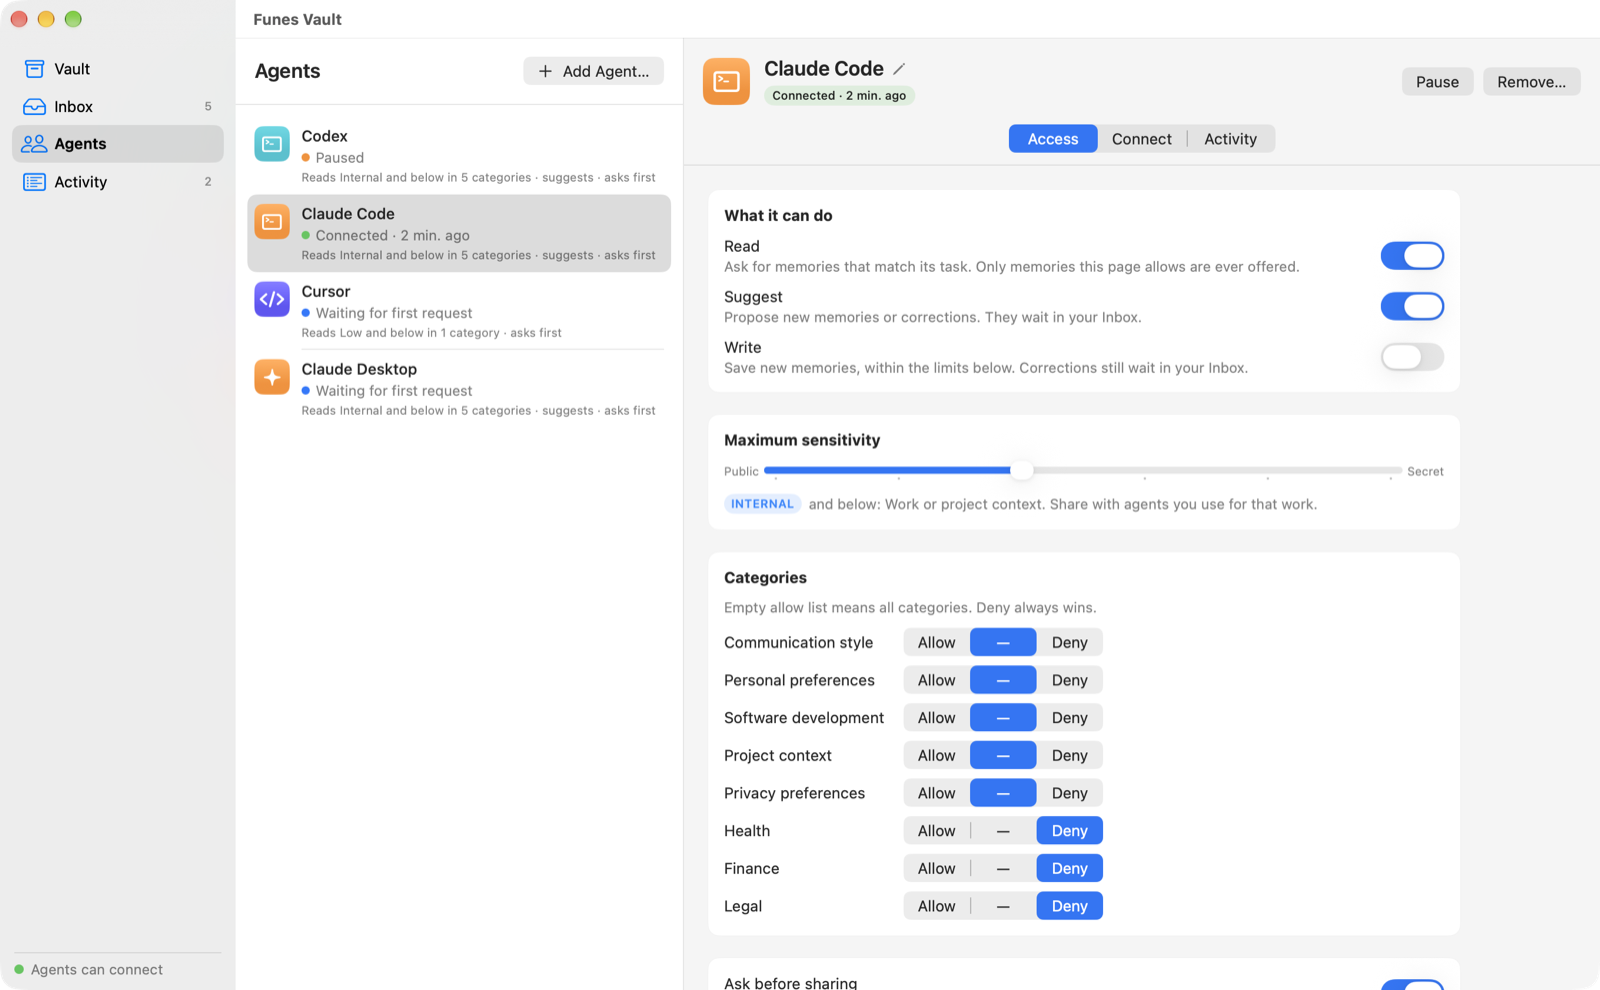
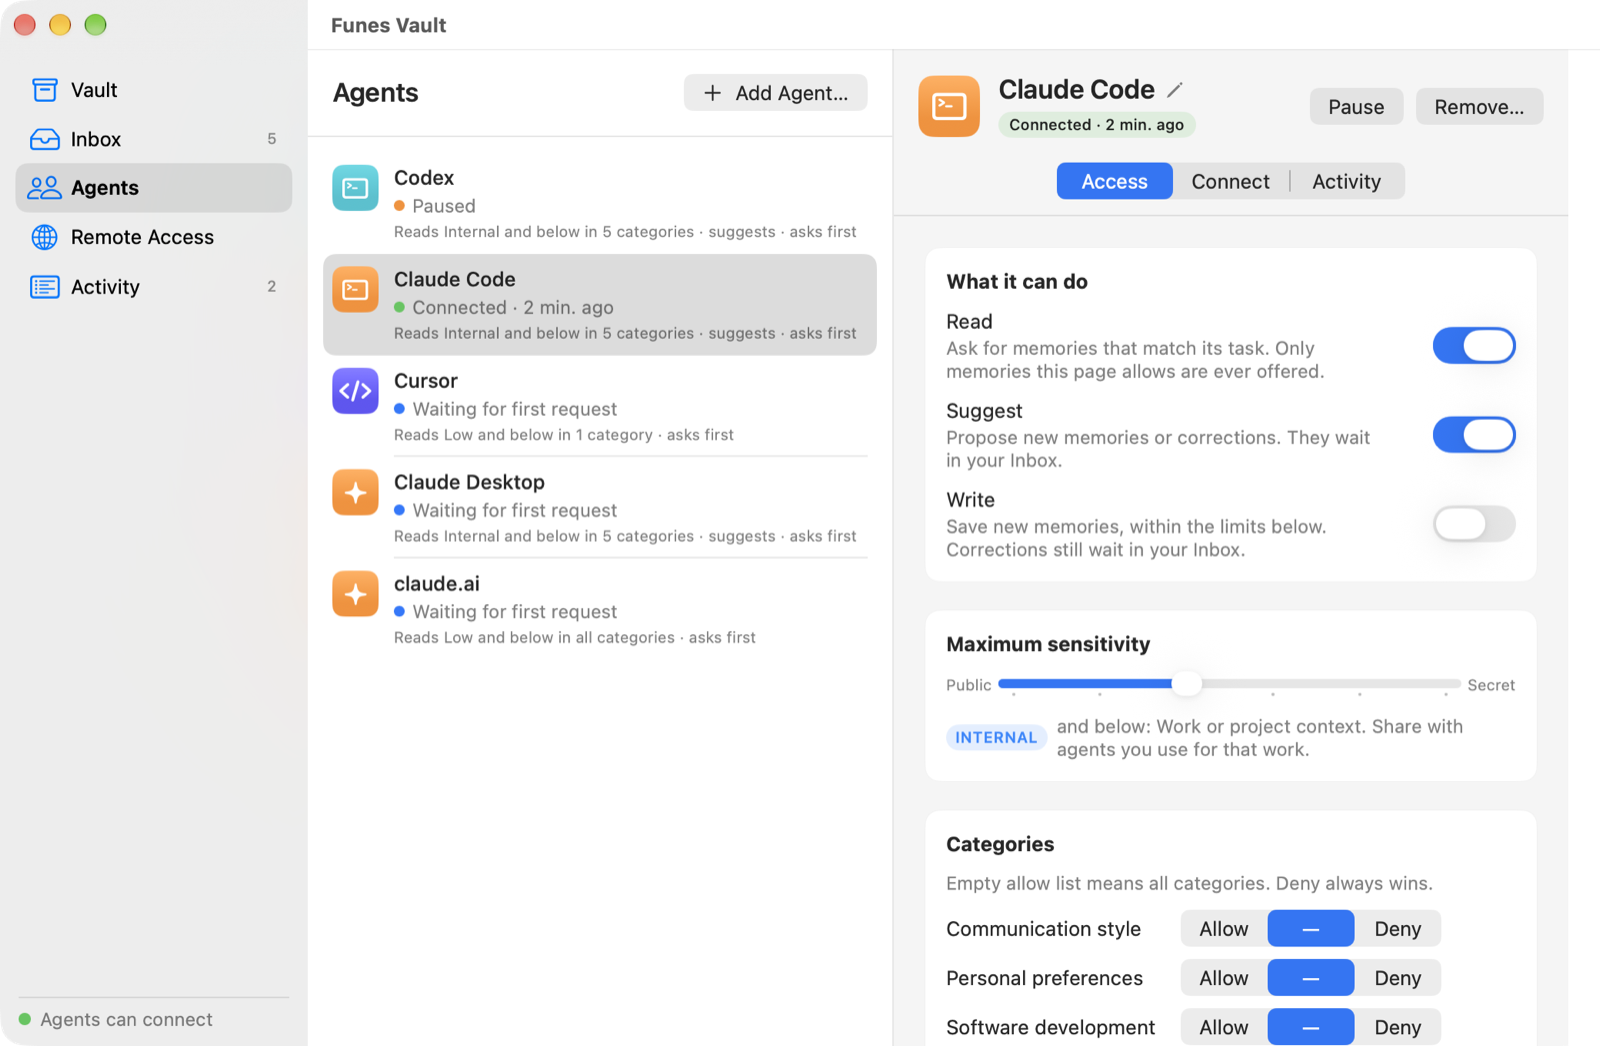
Screenshots: regenerate from the UI-review build, add Remote Access
- Regenerated vault-memory, agents-access, inbox, activity and share-panel
  (light and dark) from sh scripts/ui_snapshots.sh: the sidebar now shows
  Remote Access and the Share panel the orange eye icon.
- New: remote-access (the Remote Access page, set up) in the README, and
  agents-cloud (a cloud agent's Cloud tab) for the MCP guide.
- Alt texts describe what the images now show.
- UI review: both passes start at the default window size, not the real
  app's autosaved frame, and with Remote Access off, so light and dark
  snapshots match.
- Activity was captured at 1280 × 760: at the default 1040-point width its
  filter row now overflows the pane (an app layout issue, not fixed here).

diff --git a/Apps/FunesMac/Review/UIReview.swift b/Apps/FunesMac/Review/UIReview.swift
@@ -136,6 +136,10 @@ final class UIReview: NSObject, NSApplicationDelegate {
         keep.append(main)
         for (appearance, suffix) in [(NSAppearance.Name.aqua, "light"), (.darkAqua, "dark")] {
             NSApp.appearance = NSAppearance(named: appearance)
+            // Both passes start alike: the default window size, not the frame the real app autosaved,
+            // and Remote Access off, as the previous pass leaves it on.
+            main.window?.setContentSize(NSSize(width: 1_040, height: 680))
+            model.remoteAccess.reviewSet(enabled: false, origin: nil, tunnel: nil)
 
             // The main window, section by section.
             func mainScene(_ name: String, _ prepare: () -> Void) async {

diff --git a/README.md b/README.md
@@ -63,6 +63,11 @@ claude.ai, ChatGPT and cloud coding agents run on their vendor's servers, so the
 2. Add the agent with a cloud tile in **Add Agent…** (claude.ai, ChatGPT, …), or turn on **Allow cloud access** on an agent's **Cloud** tab.
 3. Connect it: apps that sign in (claude.ai, ChatGPT, Gemini Enterprise) use **Connect a Cloud App…** and a six-digit code you compare on the Mac; the others use the agent's remote token. The agent's **Cloud** tab shows the steps for each.
 
+<picture>
+  <source media="(prefers-color-scheme: dark)" srcset="docs/images/remote-access-dark.png">
+  <img alt="The Remote Access page, on and marked Experimental: the tunnel is reachable and running (Tailscale Funnel, forwarding to 47627), the public address and the MCP URL with its secret path, the port, when to turn off, and the agents with cloud access." src="docs/images/remote-access-light.png" width="720">
+</picture>
+
 A cloud agent gets exactly the access you set for it, and the same panels on your Mac: if you're away, its requests wait and expire as for any agent. While Remote Access is on, the vault is reachable through a public address, and what you share with a cloud agent goes to its vendor's servers. It's off by default, and **Turn Off Remote Access** in the menu bar cuts every cloud agent off at once. The [MCP guide](docs/MCP.md#use-from-cloud-agents) has the details.
 
 ## How you stay in control
@@ -75,7 +80,7 @@ Every agent has its own access: whether it may **Read**, **Suggest** or **Write*
 
 <picture>
   <source media="(prefers-color-scheme: dark)" srcset="docs/images/agents-access-dark.png">
-  <img alt="An agent's Access tab: switches for Read, Suggest and Write, the maximum sensitivity, allowed and denied categories, Ask before sharing, Ask before saving and an expiry date." src="docs/images/agents-access-light.png" width="640">
+  <img alt="The Agents page: each agent with its status and a summary of its access, and Claude Code's Access tab open, with switches for Read, Suggest and Write, a slider for the maximum sensitivity, and Allow or Deny for each category." src="docs/images/agents-access-light.png" width="640">
 </picture>
 
 ### You approve the exact text
@@ -95,7 +100,7 @@ Agents propose memories, and by default each one waits in the **Inbox** as a car
 
 <picture>
   <source media="(prefers-color-scheme: dark)" srcset="docs/images/inbox-dark.png">
-  <img alt="The Inbox: suggestion cards from agents and captures, each with its proposed title, text, categories and sensitivity, and Apply, Reject and Later buttons." src="docs/images/inbox-light.png" width="720">
+  <img alt="The Inbox: a correction from Claude Code showing the old text struck out and the new text, with editable title, text, kind, sensitivity and categories, the agent's reason as reported, and Later, Reject, Keep Both and Replace buttons." src="docs/images/inbox-light.png" width="720">
 </picture>
 
 ### You see everything, and stop anything
@@ -104,7 +109,7 @@ Agents propose memories, and by default each one waits in the **Inbox** as a car
 
 <picture>
   <source media="(prefers-color-scheme: dark)" srcset="docs/images/activity-dark.png">
-  <img alt="Activity grouped by day: each row has the time, the agent, what it asked for and the result, such as shared, denied by you or refused. The selected row's details list the memories by title and what was withheld." src="docs/images/activity-light.png" width="720">
+  <img alt="Activity: filters, two pending requests with Review… buttons, and today's rows with the time, who acted, the event and the result, such as Done, Waiting for you or Waiting in Inbox. The selected request's details show the agent and that its task text isn't stored." src="docs/images/activity-light.png" width="720">
 </picture>
 
 ### Under the hood
